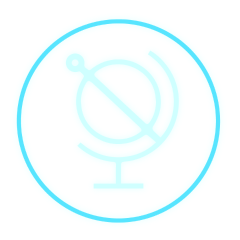
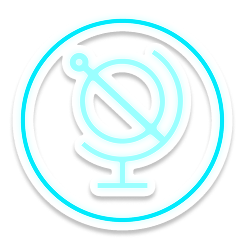
Fix antenna display off-by-one and refresh assets/copy
The dashboard's antenna row had a special case that kept antenna #1 dim until radar_level reached 2, so the first detected antenna only lit up after the second success. Replaced with the uniform rule (n <= radar_level), matching the backend's progress semantics and the win-celebration check. Also includes refreshed enable1 icon, terms copy, and en.json strings.

Changed region(s): [[0.0583, 0.0583, 0.9333, 0.9625]]

diff --git a/resources/js/content/radarlebTermsFull.ts b/resources/js/content/radarlebTermsFull.ts
@@ -44,7 +44,7 @@ To participate in prize events and claim rewards, you must register a valid acco
 
 You are responsible for maintaining the confidentiality of your login credentials.
 You are responsible for all activity that occurs under your account, whether or not authorized by you.
-You must notify us immediately of any unauthorized access to your account at ali_houdeib@hotmail.com.
+You must notify us immediately of any unauthorized access to your account at radarleb10452@gmail.com.
 You may not create multiple accounts, transfer your account, or allow another person to use your account.
 
 4.2 Verification for Prize Claims

diff --git a/resources/js/pages/Dashboard.vue b/resources/js/pages/Dashboard.vue
@@ -321,7 +321,7 @@
                 <div class="antenna-container">
                     <div v-for="n in 6" :key="n">
                         <img
-                            :src="(n === 1 ? currentProgress.radar_level >= 2 : n <= currentProgress.radar_level) ? '/assets/imgs/enable1.png' : '/assets/imgs/enable.png'"
+                            :src="n <= currentProgress.radar_level ? '/assets/imgs/enable1.png' : '/assets/imgs/enable.png'"
                             class="antenna-icon"
                         />
                     </div>
